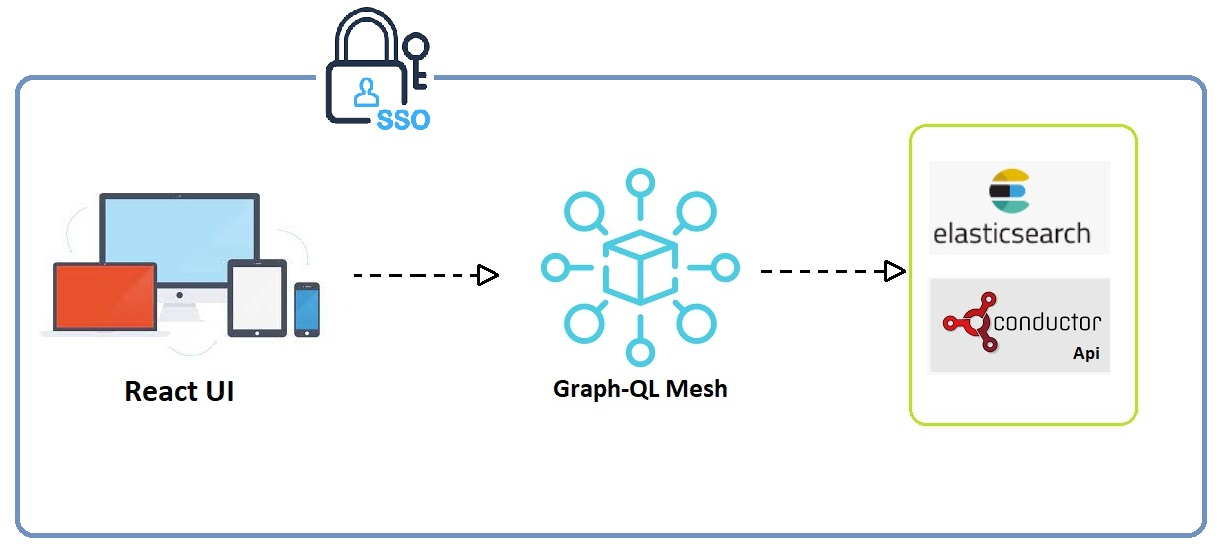
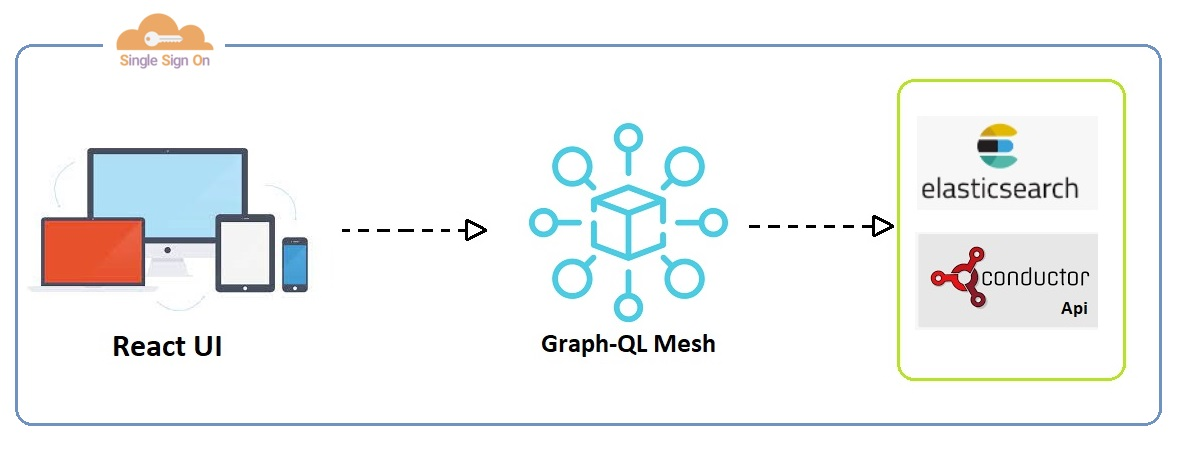
GitBook: [#34] No subject

Changed region(s): [[0.0, 0.0, 1.0, 0.9825], [0.0914, 0.6754, 0.2132, 0.7982]]

diff --git a/docs/getting-started/development-setup.md b/docs/getting-started/development-setup.md
@@ -1,2 +1,32 @@
 # Development setup
 
+Even if you would like to adapt the application to your needs or you'd like to contribute to Atlas, here are the steps to follow in order to make the application up and running:
+
+&#x20;**Step 1: Prepare your environment (prerequisites)** :thumbsup: ****&#x20;
+
+* Visual Studio Code: [https://code.visualstudio.com/download](https://code.visualstudio.com/download)
+* Git: [https://git-scm.com/download/win](https://git-scm.com/download/win)
+* Git Extensions: [https://github.com/gitextensions/gitextensions/releases](https://github.com/gitextensions/gitextensions/releases)
+* Node.js: [https://nodejs.org/en/download/](https://nodejs.org/en/download/)****
+
+**Step 2: Configure the front-end application** :thumbsup: ****&#x20;
+
+a) Go to .env configuration file from react-ui folder and set following variable with your own values:
+
+* REACT\_APP\_IDENTITY\_CLIENT\_ID_:_ This should be the public identifier of Atlas
+* REACT\_APP\_IDENTITY\_SCOPE: The list of scopes requested that will be present in the JWT token
+* &#x20;REACT\_APP\_IDENTITY\_AUTHORITY: The url to your Identity Server
+* REACT\_APP\_GQL: By default, the GQL Server runs on port 5000, but if that port will be changed, the new value must be configured here so the front-end application can communicate with the server side&#x20;
+* REACT\_APP\_USE\_NBB\_MESSAGE: If you use the [.Net Building Blocks](https://github.com/osstotalsoft/nbb) for your messaging communication, which comes with its specific message structure, you would have to set this value to `true`, otherwise it will be `false.`
+
+b) Run the following commands to start the project:
+
+<mark style="color:purple;">`yarn install`</mark>
+
+<mark style="color:purple;">`yarn start`</mark>
+
+c) Check the application at: [http://localhost:3000](http://localhost:3000)
+
+**Step 3: Configure the GQL Server application** :thumbsup: ****&#x20;
+
+Go to .env configuration file from gql-bff folder and set following variable with your own values:

diff --git a/docs/getting-started/high-level-architecture.md b/docs/getting-started/high-level-architecture.md
@@ -20,4 +20,4 @@ Elasticsearch is used by the server as an external database for different functi
 
 Conductor API is called by the server to benefit of [Conductor ](https://netflix.github.io/conductor/)functionalities which underlies the storage and orchestration of all the workflows. The API gives us the possibility to create and update the resources definitions, execute different actions on the workflows or tasks, and returns the resulting information about the processes activity.
 
-_Note: The application uses SSO Authentication technology in order to authenticate using the same ID over several related systems._&#x20;
+_Note: The application uses **SSO Authentication technology** in order to authenticate using the same ID over several related systems._&#x20;
